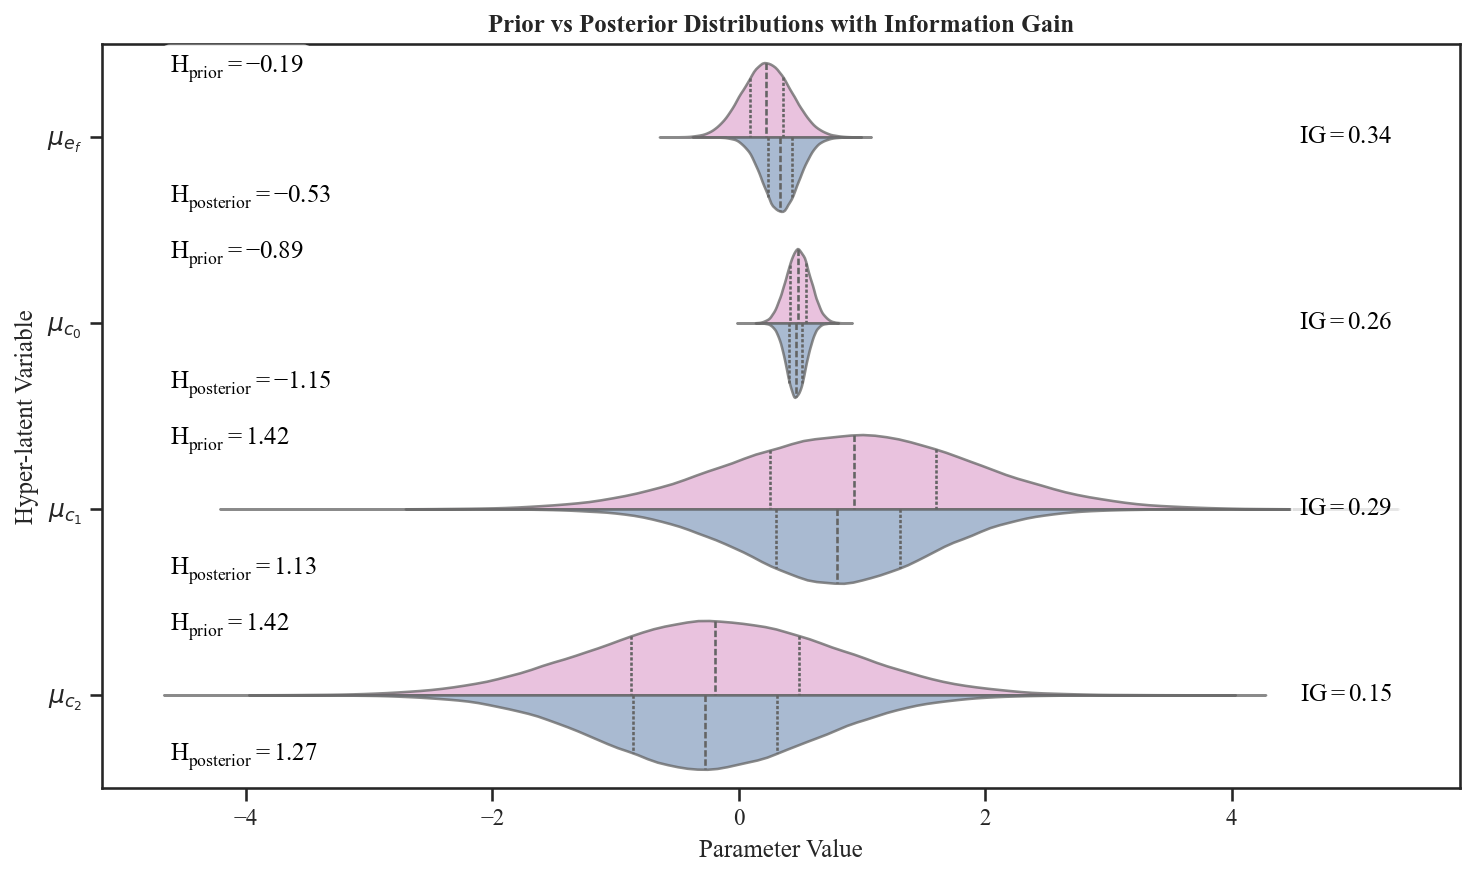
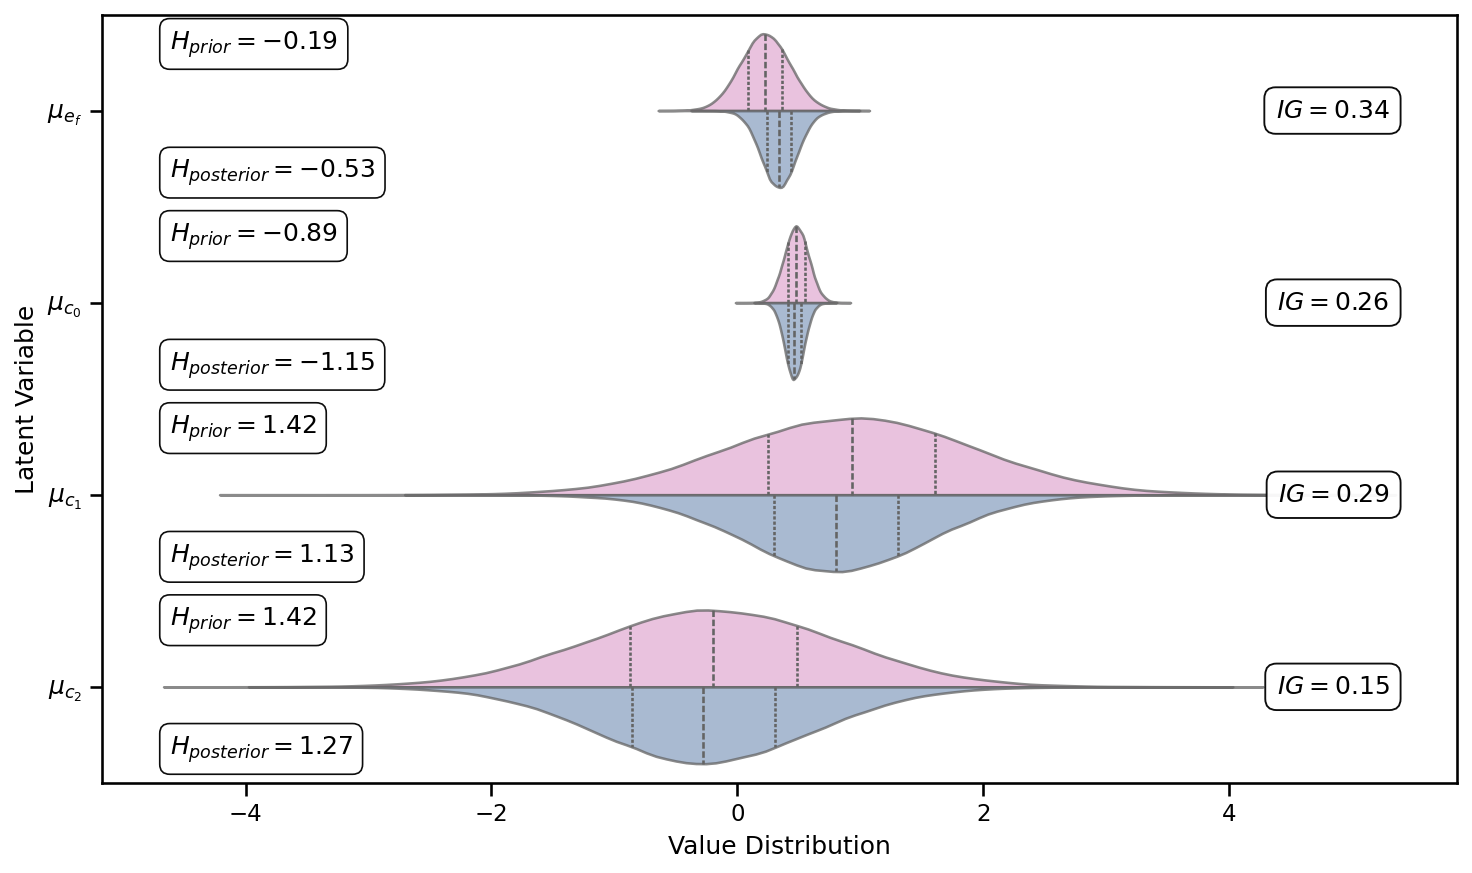
so many figure fixes

diff --git a/demos/hybrid_bonding/thermomech.py b/demos/hybrid_bonding/thermomech.py
@@ -32,6 +32,24 @@ import stratcona
 # Then try to figure out parameters that work for hybrid bonding set-up... later problem!
 ENTROPY_SAMPLES = 100_000
 
+
+def plot_nuts_trace(chain_samples, parameter_label, filename, max_samples=10000):
+    chain_samples = np.asarray(chain_samples)
+    single_chain = chain_samples[0, :max_samples]
+    draws = np.arange(1, len(single_chain) + 1)
+
+    fig, ax = plt.subplots(figsize=(10, 5))
+    ax.plot(draws, single_chain, linewidth=0.9, alpha=0.9, color="#6d9f60")
+
+    ax.set_xlabel('NUTS Sample', fontsize=12)
+    ax.set_ylabel('$ϵ_f$', fontsize=14)
+    #ax.set_title(f'NUTS Trace for $ϵ_f$', fontsize=18, fontweight='bold')
+    ax.grid(True, alpha=0.25)
+    fig.tight_layout()
+    fig.savefig(filename, dpi=150, bbox_inches='tight')
+    print(f"NUTS trace plot saved as '{filename}'")
+    plt.show()
+
 def hybrid_bonding_thermomech():
     """
     Fit Engelmaier thermomechanical fatigue model to hybrid bonding data.
@@ -241,10 +259,20 @@ def hybrid_bonding_thermomech():
         test_name = f'cond3_test_{i}'
         measured_data[test_name] = {'nf_delta_D': jnp.array([[[jnp.log(float(nf_val))]]])}
 
-    am.do_inference(measured_data)
+    inference_result = am.do_inference(measured_data, return_details=True)
     print(f'Inference completed in {time.time() - start_time:.2f} seconds')
     print("Posterior hyper-latent beliefs:")
     print(am.relmdl.hyl_beliefs)
+
+    e_f_trace_samples = np.asarray(inference_result['samples']['e_f_nom'])
+    e_f_stats = inference_result['convergence_stats']['e_f_nom']
+    print(
+        f"e_f NUTS diagnostics: ESS={float(e_f_stats['ess']):.2f}, "
+        f"split-Rhat={float(e_f_stats['srhat']):.4f}"
+    )
+
+    trace_filename = 'hybrid_bonding_e_f_nuts_trace.png'
+    plot_nuts_trace(e_f_trace_samples, 'e_f', trace_filename)
 
     #################################################################
     # -------- POSTERIOR ENTROPY CALCULATION -------------------------
@@ -439,7 +467,7 @@ def hybrid_bonding_thermomech():
     )
     
     # ---- Data Points (all conditions) ----
-    plt.scatter(Nf_data_cond1, 100*delta_D_data_cond1, color="#AD9610", s=100, marker="o", label="Data Points (T=50,t=600)", zorder=5)
+    plt.scatter(Nf_data_cond1, 100*delta_D_data_cond1, color="#AD9610", s=100, marker="o", label="Test Data Points", zorder=5)
     # plt.scatter(Nf_data_cond2, 100*delta_D_data_cond2, color="orange", s=100, marker="s", label="Data Cond2 (T=60,t=500)", zorder=5)
     # plt.scatter(Nf_data_cond3, 100*delta_D_data_cond3, color="brown", s=100, marker="^", label="Data Cond3 (T=40,t=300)", zorder=5)
     
@@ -449,7 +477,7 @@ def hybrid_bonding_thermomech():
     
     plt.xlabel("Mean Cycles to Failure (Nf, 50%)", fontsize=12)
     plt.ylabel("Inelastic Strain Range (ΔD, %)", fontsize=12)
-    plt.title("Posterior Mean and CI vs. Prior and Test Data Means", fontsize=14, fontweight='bold')
+    #plt.title("Posterior Mean and CI vs. Prior and Test Data Means", fontsize=14, fontweight='bold')
     plt.legend(fontsize=11)
     plt.grid(True, which="both", alpha=0.3)
     plt.tight_layout()
@@ -614,7 +642,7 @@ def hybrid_bonding_thermomech():
     #################################################################
     
     sb.set_context('notebook')
-    sb.set_theme(style='ticks', font='Times New Roman')
+    #sb.set_theme(style='ticks', font='Times New Roman')
     
     fig, p = plt.subplots(1, 1, figsize=(10, 6))
     display_map = {
@@ -646,33 +674,29 @@ def hybrid_bonding_thermomech():
     for fill in p.collections:
         fill.set_alpha(0.75)
     
-    plt.rcParams['mathtext.fontset'] = 'custom'
-    plt.rcParams['mathtext.rm'] = 'Times New Roman'
-    plt.rcParams['mathtext.it'] = 'Times New Roman'
-    plt.rcParams['font.family'] = 'Times New Roman'
-    
     # Add text annotations showing entropy and information gain (inside plot, offset above and below)
     pos = range(len(hyls))
     for tick, hyl in enumerate(hyls):
         y_pos = pos[tick]
         # Position entropy labels inside the plot area, stacked vertically offset from center
-        p.text(p.get_xlim()[0] + 0.05 * (p.get_xlim()[1] - p.get_xlim()[0]), y_pos - 0.35,
+        p.text(p.get_xlim()[0] + 0.05 * (p.get_xlim()[1] - p.get_xlim()[0]), y_pos - 0.32,
                f'$H_{{prior}}={round(float(pri_entropy[hyl]), 2)}$',
-               horizontalalignment='left', size='medium', color='black', bbox=dict(boxstyle='round,pad=0.3', facecolor='white', alpha=0.8))
+             horizontalalignment='left', fontsize=12, fontweight='semibold', color='black',
+             bbox=dict(boxstyle='round,pad=0.4', facecolor='white', edgecolor='black', linewidth=0.8, alpha=0.95))
         p.text(p.get_xlim()[0] + 0.05 * (p.get_xlim()[1] - p.get_xlim()[0]), y_pos + 0.35,
                f'$H_{{posterior}}={round(float(pst_entropy[hyl]), 2)}$',
-               horizontalalignment='left', size='medium', color='black', bbox=dict(boxstyle='round,pad=0.3', facecolor='white', alpha=0.8))
+             horizontalalignment='left', fontsize=12, fontweight='semibold', color='black',
+             bbox=dict(boxstyle='round,pad=0.4', facecolor='white', edgecolor='black', linewidth=0.8, alpha=0.95))
         p.text(p.get_xlim()[1] - 0.05 * (p.get_xlim()[1] - p.get_xlim()[0]), y_pos,
                f'$IG={round(float(hyl_ig[hyl]), 2)}$',
-               horizontalalignment='right', verticalalignment='center', size='medium', color='black', weight='bold', 
-               bbox=dict(boxstyle='round,pad=0.3', facecolor='white', alpha=0.8))
+             horizontalalignment='right', verticalalignment='center', fontsize=12, color='black', fontweight='bold',
+             bbox=dict(boxstyle='round,pad=0.45', facecolor='white', edgecolor='black', linewidth=0.9, alpha=0.95))
     
     p.legend().remove()
-    p.tick_params(axis='y', which='major', labelsize=12, labelfontfamily='Times New Roman')
-    p.set_xlabel('Parameter Value', fontsize='medium')
-    p.set_ylabel('Hyper-latent Variable', fontsize='medium')
-    p.set_title('Prior vs Posterior Distributions with Information Gain', fontsize='medium', fontweight='bold')
-    
+    p.tick_params(axis='y', which='major', labelsize=12)
+    p.set_xlabel('Value Distribution', fontsize='12')
+    p.set_ylabel('Latent Variable', fontsize='12')
+
     plt.tight_layout()
     filename_entropy = 'prior_posterior_entropy_violin.png'
     plt.savefig(filename_entropy, dpi=150, bbox_inches='tight')

diff --git a/demos/hybrid_bonding/freq_approach.py b/demos/hybrid_bonding/freq_approach.py
@@ -1,0 +1,127 @@
+"""Frequentist confidence-interval demo for Black's equation.
+
+This script uses the same EM MTTF observations as the Bayesian demo and
+illustrates an important frequentist limitation: with data from only one test
+condition (single temperature and single current density), the three Black's
+equation parameters are not separately identifiable.
+"""
+
+import numpy as np
+from matplotlib import pyplot as plt
+
+
+BOLTZ_EV = 8.617e-5  # eV/K
+
+
+def black_mttf(current_density, temp_k, ea, A, n):
+    """Black's equation MTTF model.
+
+    MTTF = A / J^n * exp(Ea / (kT))
+    """
+    return A / (current_density ** n) * np.exp(ea / (BOLTZ_EV * temp_k))
+
+
+def run_frequentist_em_ci_demo():
+    # Same rough points from electromigration.py
+    mttf_data = np.array([211.0, 214.0, 215.0, 216.0, 218.0])
+
+    # Same stress condition as electromigration.py
+    temp_k = 350.0 + 273.15
+    current_density = (20e-3 / 16) / (3.6**2 / 1e8)
+
+    n_obs = mttf_data.size
+    y_bar = float(np.mean(mttf_data))
+    s = float(np.std(mttf_data, ddof=1))
+    se_mean = s / np.sqrt(n_obs)
+
+    # For n=5 (df=4), two-sided 95% t critical value.
+    tcrit_95_df4 = 2.776445105
+
+    print("=== Frequentist CI Demo for Black's Equation Parameters ===")
+    print(f"Data: {mttf_data.tolist()}")
+    print(f"Sample mean MTTF: {y_bar:.3f} h")
+    print(f"Sample std MTTF:  {s:.3f} h")
+
+    # -----------------------------------------------------------------
+    # 1) Show why separate CIs for (Ea, n, A) are not estimable here.
+    # -----------------------------------------------------------------
+    # With one stress point, all observations share same (J, T), and
+    # mu(Ea, n, A) depends only on this composite:
+    #   c = ln(A) - n ln(J) + Ea / (kT)
+    # so infinitely many (Ea, n, A) map to the same mean MTTF.
+    lnJ = np.log(current_density)
+    inv_kT = 1.0 / (BOLTZ_EV * temp_k)
+
+    # Jacobian row for one observation wrt [Ea, n, A] at a reference point.
+    ea_ref = 0.99
+    n_ref = 1.36
+    A_ref = 0.516
+    mu_ref = black_mttf(current_density, temp_k, ea_ref, A_ref, n_ref)
+    jac_row = np.array([
+        mu_ref * inv_kT,
+        -mu_ref * lnJ,
+        mu_ref / A_ref,
+    ])
+
+    # Same jacobian row repeats for each observation -> rank 1 info matrix.
+    J = np.tile(jac_row, (n_obs, 1))
+    fisher_like = J.T @ J
+    rank = int(np.linalg.matrix_rank(fisher_like))
+
+    print("\nIdentifiability check (single stress condition):")
+    print(f"Information matrix rank for [Ea, n, A]: {rank} (max 3)")
+    print("Result: rank-deficient -> separate 95% CIs for Ea, n, and A are not")
+    print("uniquely estimable from this dataset alone.")
+
+    # -----------------------------------------------------------------
+    # 2) Standard frequentist CI for identifiable quantity.
+    # -----------------------------------------------------------------
+    # Here, the condition-specific mean MTTF is identifiable.
+    ci_mu_low = y_bar - tcrit_95_df4 * se_mean
+    ci_mu_high = y_bar + tcrit_95_df4 * se_mean
+
+    print("\n95% CI for identifiable mean MTTF at this (J, T):")
+    print(f"mu in [{ci_mu_low:.3f}, {ci_mu_high:.3f}] hours")
+
+    # Equivalent CI for composite parameter c = ln(mu) at this (J, T).
+    c_hat = np.log(y_bar)
+    c_ci = np.log([ci_mu_low, ci_mu_high])
+
+    print("\nEquivalent CI for composite c = ln(A) - n ln(J) + Ea/(kT):")
+    print(f"c_hat = {c_hat:.6f}")
+    print(f"95% CI for c: [{c_ci[0]:.6f}, {c_ci[1]:.6f}]")
+
+    # -----------------------------------------------------------------
+    # 3) Plot only the standard confidence interval result.
+    # -----------------------------------------------------------------
+    fig, ax = plt.subplots(1, 1, figsize=(12, 7))
+
+    x = np.arange(1, n_obs + 1)
+    ax.scatter(x, mttf_data, color="black", s=80, label="Observed MTTF")
+    ax.hlines(y=y_bar, xmin=0.7, xmax=n_obs + 0.3, color="#1f77b4", linewidth=3, label="Sample mean")
+    ax.fill_between(
+        [0.7, n_obs + 0.3],
+        [ci_mu_low, ci_mu_low],
+        [ci_mu_high, ci_mu_high],
+        color="#1f77b4",
+        alpha=0.2,
+        label="95% confidence interval",
+    )
+
+    ax.set_xlim(0.5, n_obs + 0.5)
+    ax.set_xlabel("Observation index", fontsize=13)
+    ax.set_ylabel("MTTF (hours)", fontsize=13)
+    ax.set_title("Standard Frequentist 95% Confidence Interval for Mean MTTF", fontsize=15, fontweight="bold")
+    ax.grid(alpha=0.3)
+    ax.legend(loc="best", fontsize=11)
+
+    plt.tight_layout()
+    filename = "electromigration_standard_confidence_interval.png"
+    plt.savefig(filename, dpi=180, bbox_inches="tight")
+    print(f"\nStandard CI plot saved as '{filename}'")
+    plt.show()
+
+
+if __name__ == "__main__":
+    run_frequentist_em_ci_demo()
+    

diff --git a/demos/hybrid_bonding/electromigration.py b/demos/hybrid_bonding/electromigration.py
@@ -243,9 +243,9 @@ def hybrid_bonding_electromigration():
     #################################################################
     # -------- PLOT COLOR-CODED MTTF PREDICTIONS (PRIOR vs POSTERIOR)
     #################################################################
-    num_curves = 2000
+    num_curves = 1000
     test_plot = stratcona.TestDef('mttf_plot', test_conds, cond_params)
-    rng, k1, k2, k3, k4 = rand.split(rand.key(452424242), 5)
+    rng, k1, k2, k3, k4 = rand.split(rand.key(4525455524242), 5)
 
     # Sample from prior and compute MTTF curves over a range of temperatures
     prm_samples_prior = am.relmdl.sample(k1, test_plot.dims, test_plot.conds, (num_curves,), ('ea', 'n', 'A'))
@@ -284,27 +284,27 @@ def hybrid_bonding_electromigration():
 
     # Plot color-coded MTTF predictions
     sb.set_context('notebook')
-    sb.set_theme(style='ticks', font='Times New Roman')
-    fig, ax = plt.subplots(figsize=(12, 7))
+    sb.set_theme(style='ticks')
+    fig, ax = plt.subplots(figsize=(10, 6))
 
     # Plot prior curves
     for i in range(num_curves):
-        ax.plot(temp_range_celsius, pri_mttf[i, :], color='#69cd50', alpha=0.1, linewidth=1.0)
+        ax.plot(temp_range_celsius, pri_mttf[i, :], color="#ef00cf", alpha=0.15, linewidth=1.0)
 
     # Plot posterior curves
     for i in range(num_curves):
-        ax.plot(temp_range_celsius, pst_mttf[i, :], color="#3473c6", alpha=0.1, linewidth=1.0)
+        ax.plot(temp_range_celsius, pst_mttf[i, :], color="#6099e5", alpha=0.1, linewidth=1.0)
 
     # Add legend patches
-    prior_patch = pltlines.Line2D([0], [0], color='#69cd50', linewidth=2, label='Prior predictive MTTF')
-    posterior_patch = pltlines.Line2D([0], [0], color='#3473c6', linewidth=2, label='Posterior predictive MTTF')
-    ax.legend(handles=[prior_patch, posterior_patch], loc='upper right', fontsize='medium')
+    prior_patch = pltlines.Line2D([0], [0], color="#ef00cf", linewidth=2, label='Prior predictive MTTF')
+    posterior_patch = pltlines.Line2D([0], [0], color="#6099e5", linewidth=2, label='Posterior predictive MTTF')
+    ax.legend(handles=[prior_patch, posterior_patch], loc='upper right', fontsize='14')
 
-    ax.set_xlabel('Temperature (°C)', fontsize='medium')
-    ax.set_ylabel('Mean Time To Failure (hours)', fontsize='medium')
+    ax.set_xlabel('Temperature (°C)', fontsize='18')
+    ax.set_ylabel('Mean Time To Failure (hours)', fontsize='18')
     ax.set_yscale('log')
-    ax.set_title('Prior vs Posterior MTTF Predictions\n(Black\'s Equation at constant current density)', 
-                 fontsize='medium', fontweight='bold')
+    #ax.set_title('Prior vs Posterior MTTF Predictions\n(Black\'s Equation at constant current density)', 
+     #            fontsize='medium', fontweight='bold')
     ax.grid(True, alpha=0.3)
 
     plt.tight_layout()

diff --git a/demos/hybrid_bonding/dielectric.py b/demos/hybrid_bonding/dielectric.py
@@ -47,7 +47,7 @@ def hybrid_bonding_dielectric():
 
     # Power law: ramp_rate = c * vbd^gamma
     def calc_log_ramprate(vbd, gamma, log_c):
-        log_ramprate = gamma * jnp.log(vbd) + log_c
+        log_ramprate = (gamma + 1) * jnp.log(vbd) - log_c
         return log_ramprate
 
     ##################################################################
@@ -89,7 +89,7 @@ def hybrid_bonding_dielectric():
     selected_vbd, selected_ramprate = datasets_by_temp[SET_TEMP]
 
     gamma_prior = {'loc': 12.3, 'scale': 2.0} # variance of 2.0 since that is roughly how much gamma varies in their datasets
-    log_c_prior = {'loc': -65, 'scale': 10.0}
+    log_c_prior = {'loc': 65, 'scale': 10.0}
 
     mb = stratcona.SPMBuilder(mdl_name='hb_dielectric')
     mb.add_params(meas_var=0.2) # measurement variance for log(ramp_rate)
@@ -206,7 +206,7 @@ def hybrid_bonding_dielectric():
         
         ax.set_xlabel(display_map.get(hyl_name, hyl_name))
         ax.set_ylabel('Density')
-        ax.set_title(f'{display_map.get(hyl_name, hyl_name)}: Prior vs Posterior')
+        #ax.set_title(f'{display_map.get(hyl_name, hyl_name)}: Prior vs Posterior')
         ax.legend()
         ax.grid(True, alpha=0.3)
     
@@ -214,7 +214,7 @@ def hybrid_bonding_dielectric():
     for idx in range(n_vars, len(axes)):
         fig.delaxes(axes[idx])
     
-    fig.suptitle("Prior vs Posterior Distributions", fontsize=14, fontweight='bold', y=0.995)
+   # fig.suptitle("Prior vs Posterior Distributions", fontsize=14, fontweight='bold', y=0.995)
     
     plt.tight_layout()
     filename = 'dielectric_posterior_distributions.png'
@@ -281,7 +281,7 @@ def hybrid_bonding_dielectric():
     p.legend().remove()
     p.tick_params(axis='y', which='major', labelsize=12, labelfontfamily='Times New Roman')
     p.set_xlabel('Parameter Value', fontsize='medium')
-    p.set_ylabel('Hyper-latent Variable', fontsize='medium')
+    p.set_ylabel('Latent Variable', fontsize='medium')
     p.set_title('Prior vs Posterior Distributions with Information Gain', fontsize='medium', fontweight='bold')
     
     plt.tight_layout()

diff --git a/stratcona/manager.py b/stratcona/manager.py
@@ -35,13 +35,18 @@ class AnalysisManager:
         else:
             return self.relmdl.sample(rng, self.test.dims, self.test.conds, num, self.relmdl.observes)
 
-    def do_inference(self, observations, test: TestDef = None, auto_update_prior=True):
+    def do_inference(self, observations, test: TestDef = None, auto_update_prior=True, return_details=False):
         rng = self._derive_key()
         test_info = test if test is not None else self.test
         inf_mdl = partial(self.relmdl.spm, test_info.dims, test_info.conds, self.relmdl.hyl_beliefs, self.relmdl.param_vals)
-        new_prior = inference_model(inf_mdl, self.relmdl.hyl_info, observations, rng)
+        inference_result = inference_model(
+            inf_mdl, self.relmdl.hyl_info, observations, rng, return_details=return_details
+        )
+        new_prior = inference_result['new_prior'] if return_details else inference_result
         if auto_update_prior:
             self.relmdl.hyl_beliefs = new_prior
+        if return_details:
+            return inference_result
 
     def do_inference_is(self, observations, test: TestDef = None, n_x=10_000, n_v=500):
         rng = self._derive_key()

diff --git a/stratcona/engine/inference.py b/stratcona/engine/inference.py
@@ -232,7 +232,8 @@ def marginalize_v_naive(rng_key, spm, batch_dims: tuple[int, int, int], test_dim
     return lp_y_g_x, perf_stats
 
 
-def inference_model(model, hyl_info, observed_data, rng_key, num_samples: int = 10_000, num_chains: int = 4):
+def inference_model(model, hyl_info, observed_data, rng_key, num_samples: int = 10_000, num_chains: int = 4,
+                    return_details: bool = False):
     kernel = NUTS(model)
     sampler = MCMC(kernel, num_warmup=2_000, num_samples=num_samples, num_chains=num_chains, progress_bar=True)
     sampler.run(rng_key, measured=observed_data, extra_fields=('potential_energy',))
@@ -251,6 +252,16 @@ def inference_model(model, hyl_info, observed_data, rng_key, num_samples: int = 
     new_prior = {}
     for hyl in hyl_info:
         new_prior[hyl] = fit_dist_to_samples(hyl_info[hyl], samples[hyl])
+
+    if return_details:
+        return {
+            'new_prior': new_prior,
+            'samples': samples,
+            'convergence_stats': convergence_stats,
+            'extra_fields': extra_info,
+            'diverging': diverging,
+        }
+
     return new_prior
 
 
